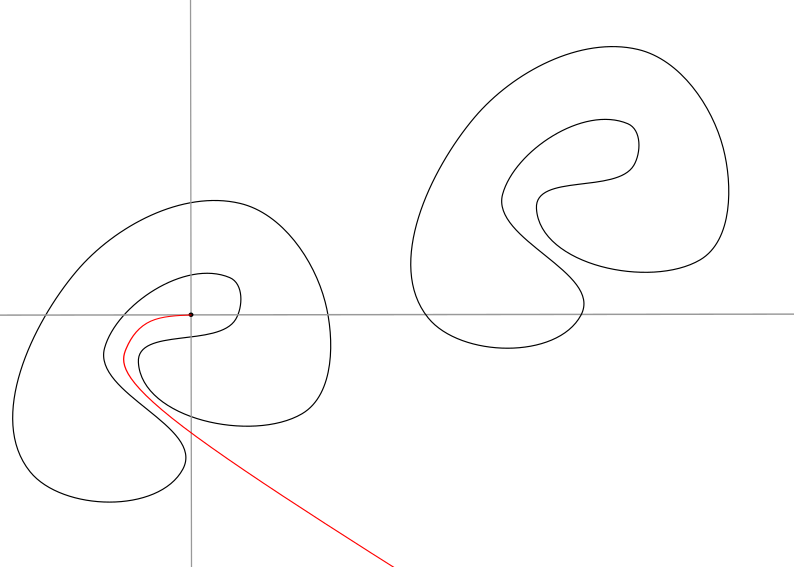
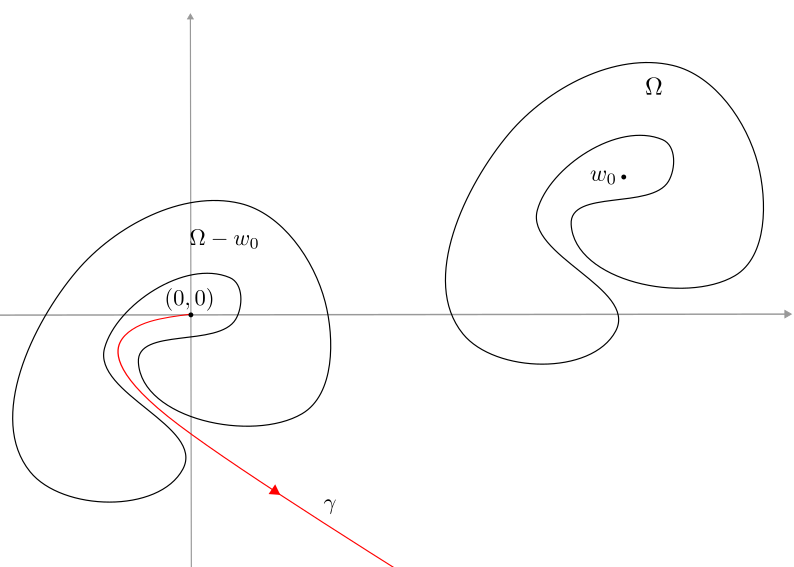
Mer riemann och några figurer

diff --git a/riemann.tex b/riemann.tex
@@ -18,6 +18,14 @@
 	Öppna områden, samt enkel sammanhängande områden behvaras under en holomorf avbildning.
 \end{theorem}
 
+\begin{lemma}[Schwarz lemma]
+
+\end{lemma}
+
+\begin{theorem}[Rouchés sats]
+
+\end{theorem}
+
 \begin{theorem}[Riemanns avbildningssats]
 	Varje enkelt sammanhängande område $\Omega \subset \mathbb{C}$ är konformt ekvivalent med den öppna enhetsdisken $U$.
 \end{theorem}
@@ -44,7 +52,7 @@
 		\begin{center}
 			\includegraphics[width=0.95\textwidth]{figures/grensnitt.png}
 		\end{center}
-		\caption{Området $\Omega$ och $\phi(\Omega)-w_0$. Det går att välja en kurva som grensnitt. }\label{fig:grensnitt_kurva}
+		\caption{Området $\Omega$ och $\Omega-w_0$. Det går att välja en kurva $\gamma$ som grensnitt. }\label{fig:grensnitt_kurva}
 	\end{figure}
 
 
@@ -70,7 +78,7 @@
 
 
 
-	Eftersom $\phi$ är holomorf är det enligt sats \ref{th:öppna_områden_bevaras} en avbildning som bevarar öppna områden. Det innebär att det går att hitta en cirkelskiva $D(a, r) \in \phi(\Omega)$, med  $0< r < \vert a\vert$. Denna begränsning på $r$ är inte någon inskränkning eftersom om vi skulle ha en cirkel med större radie än $\vert a\vert$ så gäller det även att en mindre cirkel också ligger i $\phi(\Omega)$. Vi kan även konstatera att cirkelskivan $D(-a, r)$ \emph{inte} ligger i $\phi(\Omega)$, till följd av \eqref{eq:phi_symmetry}. Bilda nu funktionen
+	Eftersom $\phi$ är holomorf är det enligt sats \ref{th:öppna_områden_bevaras} en avbildning som bevarar öppna områden. Det innebär att det går att hitta en cirkelskiva $D(a, r) \in \phi(\Omega)$, med  $0< r < \vert a\vert$, se figur \ref{fig:phi(omega)-disk}. Denna begränsning på $r$ är inte någon inskränkning eftersom om vi skulle ha en cirkel med större radie än $\vert a\vert$ så gäller det även att en mindre cirkel också ligger i $\phi(\Omega)$. Vi kan även konstatera att cirkelskivan $D(-a, r)$ \emph{inte} ligger i $\phi(\Omega)$, till följd av \eqref{eq:phi_symmetry}. Bilda nu funktionen
 	\begin{equation}
 		\Psi(z) = \frac{r}{\phi(z) +a}.
 	\end{equation}
@@ -79,6 +87,15 @@
 		\abs{\Psi(z)} = \abs{\frac{r}{\phi(z) +a}} =\frac{r}{\abs{\phi(z) - (-a)}} < 1,
 	\end{equation*}
 	ty $\abs{\phi(z) - (-a)} > r$ eftersom $D(-a, r) \notin \phi(\Omega)$. Alltså gäller det att $\Psi \in \Sigma$ och mängden är icketom.
+
+
+	\begin{figure}
+		\begin{center}
+			\includegraphics[width=0.95\textwidth]{figures/disk.png}
+		\end{center}
+		\caption{Eftersom $\phi(\Omega)$ är öppen finns en disk $D(a, r) \in \phi(\Omega)$. Disken $D(-a, r)$ ligger \emph{inte} i $\phi(\Omega)$.}\label{fig:phi(omega)-disk}
+	\end{figure}
+
 
 	Vi ska nu visa att om $\Psi \in \Sigma$ och $\Psi(\Omega)$ inte täcker hela $U$, och om $z_0 \in \Omega$ så går det att hitta en funktion $\tilde{\Psi}$ som uppfyller
 	\begin{equation*}
@@ -94,8 +111,42 @@
 	\end{equation*}
 	Det gäller också att $\phi_{\alpha}$ är bijektiv mellan $U$ och $U$.
 
-	Tag nu ett $\Psi \in \Sigma$, $\alpha \in U$ där $\alpha \notin \Psi(\Omega)$.
+	Tag nu ett $\Psi \in \Sigma$, $\alpha \in U$ där $\alpha \notin \Psi(\Omega)$, se figur \ref{fig:psi_omega}. Då gäller att sammansättningen $\phi_{\alpha} \circ \Psi \in \Sigma$ eftersom funktionen är holomorf och injektiv på $\Omega$ samt att $\Psi$ mappar $\Omega$ inuti $U$ och $\phi_{\alpha}$ mappar $U$ på $U$.
 
+
+	\begin{figure}
+		\begin{center}
+			\includegraphics[width=0.95\textwidth]{figures/psi_omega.png}
+		\end{center}
+		\caption{}\label{fig:psi_omega}
+	\end{figure}
+
+
+	Eftersom $a \notin \Psi(\Omega)$ har $\phi_{\alpha} \circ \Psi$ inget nollställe i $\Omega$ ty
+	\begin{equation*}
+		\phi_{\alpha}(z) = 0 \iff z = \alpha.
+	\end{equation*}
+	Det existerar därmed en funktion $g \in \H(\Omega)$ så att
+	\begin{equation} \label{eq:g^2}
+		g^2(z) = \phi_{\alpha} \circ \Psi(z),
+	\end{equation}
+	eftersom $g^2(\Omega)$ är enkelt sammanhängande och med samma argument som tidigare för att det går att definiera en logaritm. Dessutom är $g$ injektiv vilket ger oss att $g \in \Sigma$. Om vi definierar
+	\begin{equation} \label{eq:psi-tilde}
+		\tilde{\Psi} = \phi_{\beta} \circ g,
+	\end{equation}
+	där $\beta = g(z_0)$ så kommer $\tilde{\Psi} \in \Sigma$. Låter vi funktionen $s$ vara kvadratfunktionen, det vill säga $s(w) = w^2$ så kommer det enligt \eqref{eq:g^2} och \eqref{eq:psi-tilde} gälla att
+	\begin{equation}\label{eq:relation_psi_psi-tilde}
+		\Psi = \phi_{-\alpha} \circ s\circ g =\phi_{-\alpha} \circ s \circ \phi_{-\beta} \circ \tilde{\Psi} = F \circ \tilde{\Psi},
+	\end{equation}
+	där $F =\phi_{-\alpha} \circ s \circ \phi_{-\beta}$.
+	Eftersom vi valde $\beta = g(z_0)$ är
+	\begin{equation*}
+		\tilde{\Psi}(z_0) = \phi_{\beta} \circ g(z_0) = \frac{g(z_0) - g(z_0)}{1- \conj{g(z_0)}z_0} = 0.
+	\end{equation*}
+	Därför får vi från \eqref{eq:relation_psi_psi-tilde} och kedjeregeln att
+	\begin{equation*}
+		\Psi'(z_0) = \tilde{\Psi}'(z_0)F'(\tilde{\Psi}(z_0))  = \tilde{\Psi}'(z_0)F'(0).
+	\end{equation*}
 
 
 \end{proof}

diff --git a/common.tex b/common.tex
@@ -43,4 +43,4 @@
 
 
 \newcommand{\abs}[1]{\left\lvert #1 \right\rvert}
-\newcommand{\conj}[1]{\overline #1}
+\newcommand{\conj}[1]{\overline{#1}}
